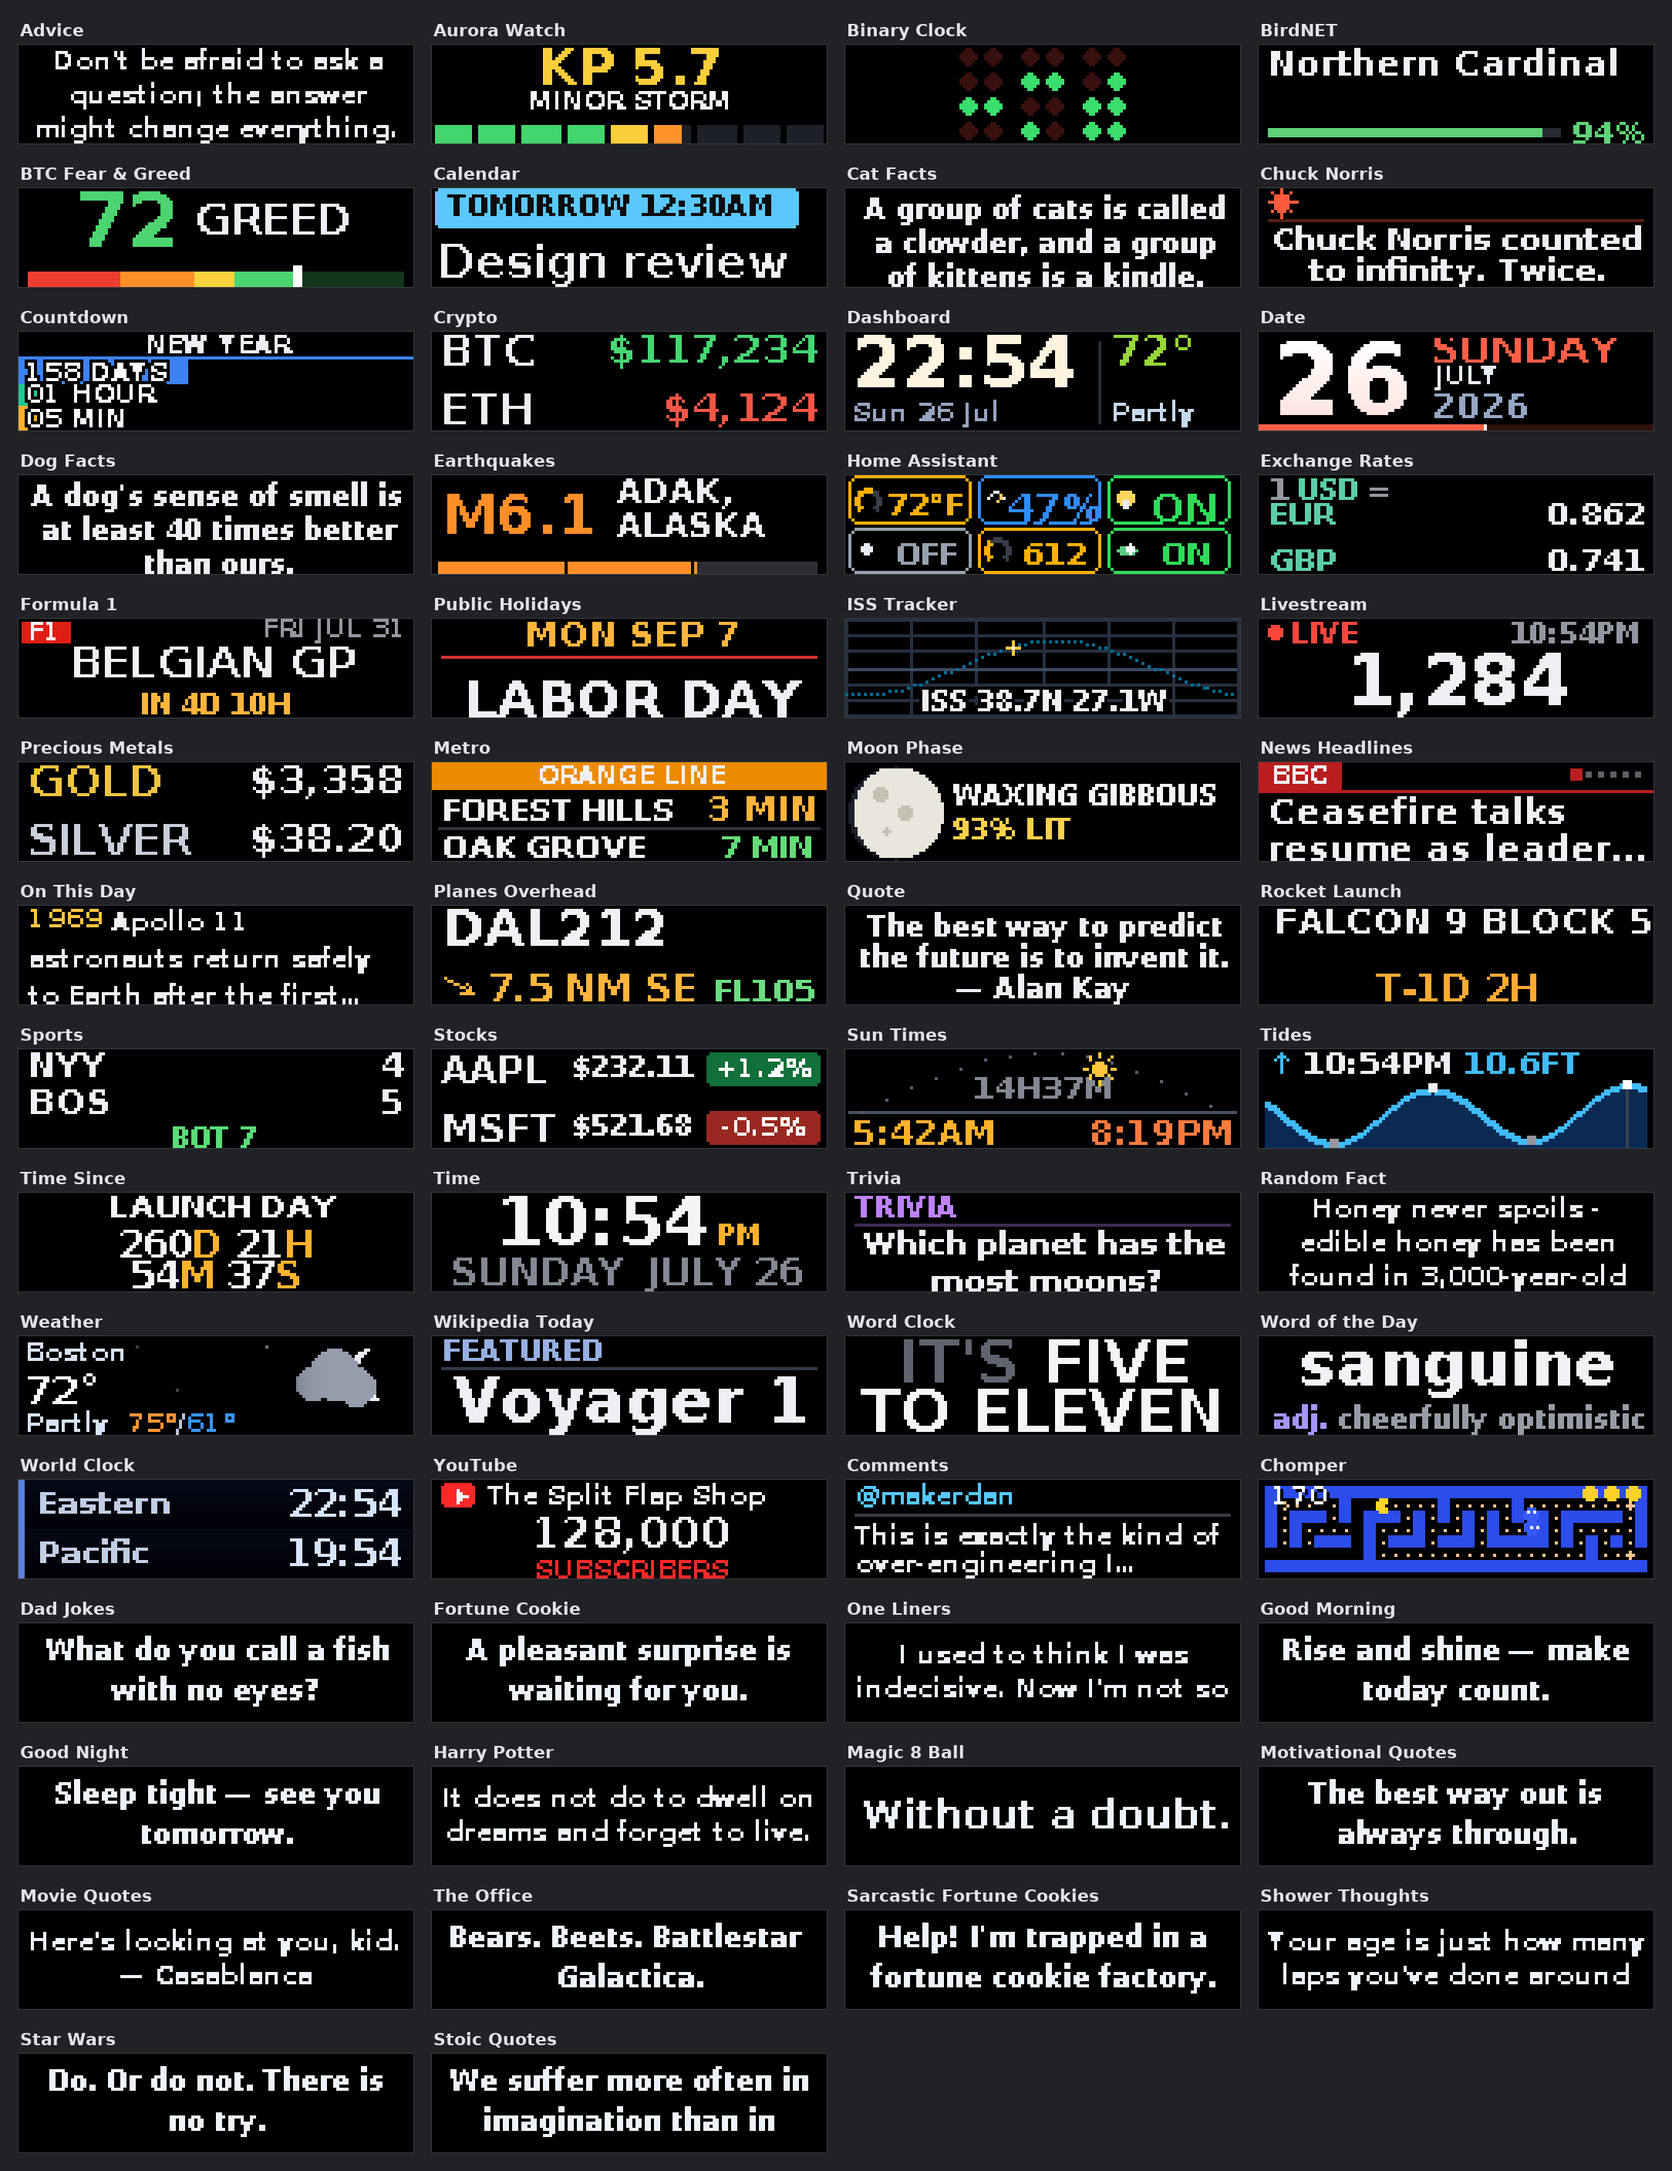
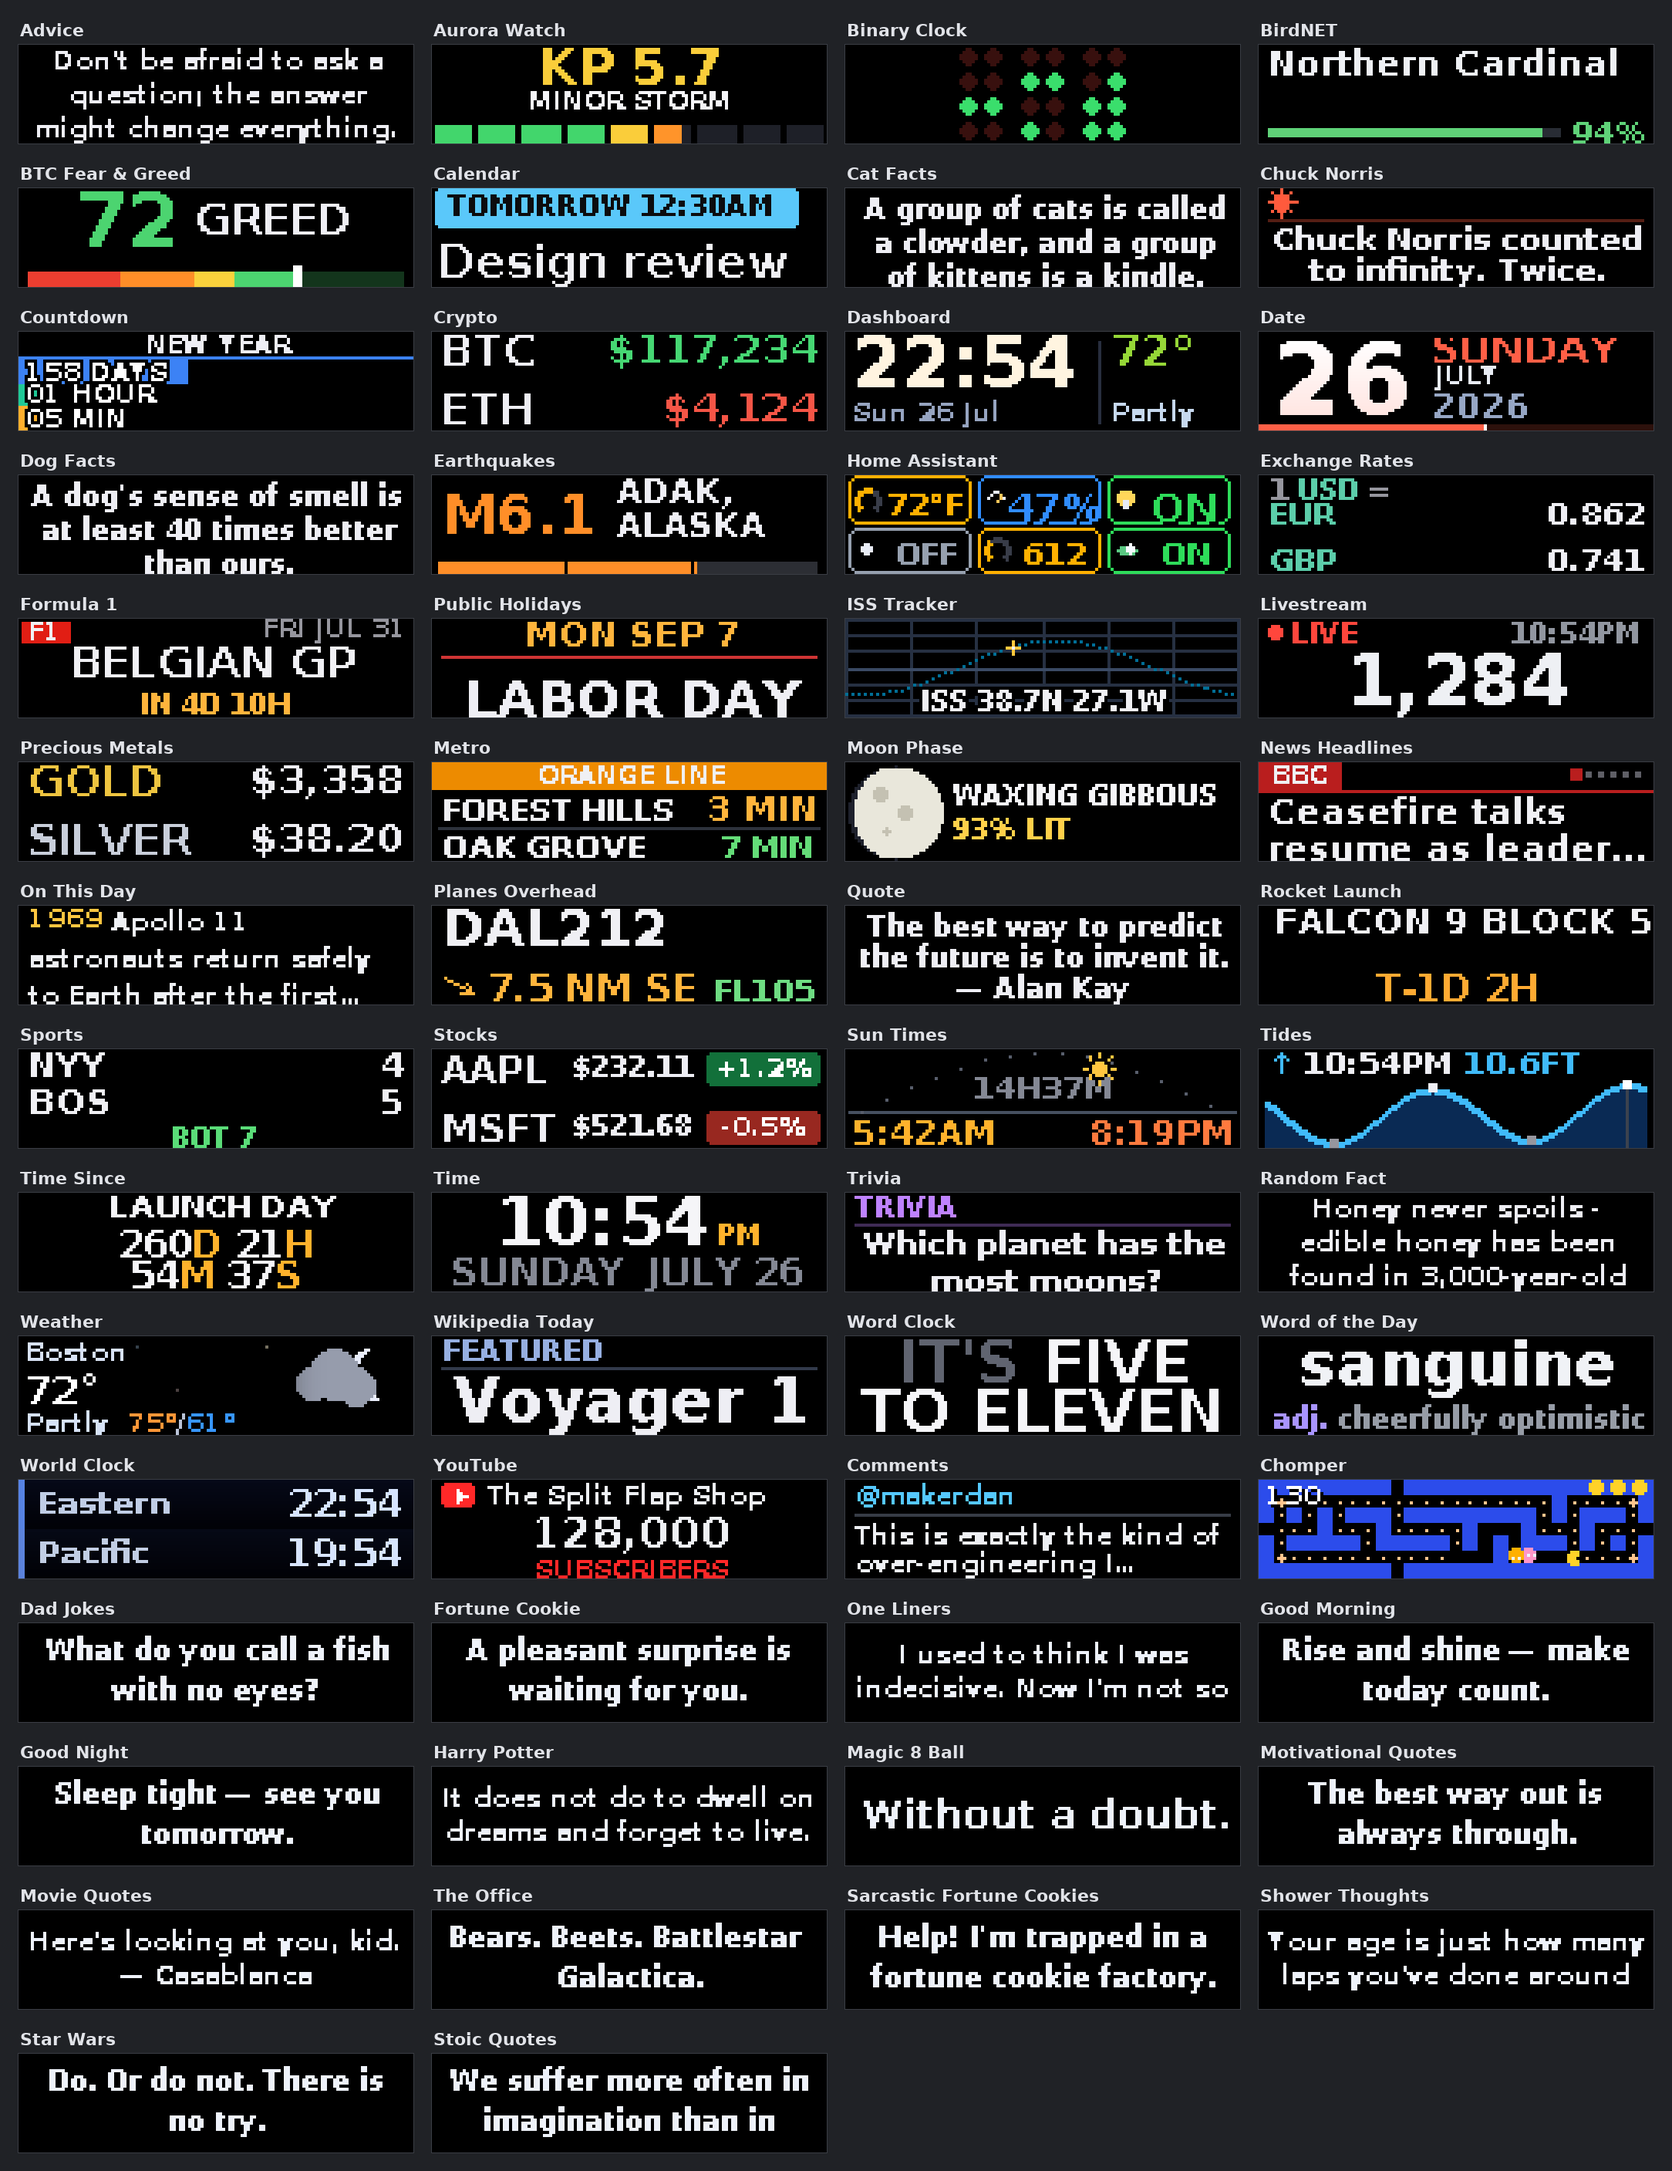
Chomper: randomized tunnel placement + a vertical tunnel
Side tunnels vary in count (one or two) and row per level; every maze also
opens one vertical tunnel at a random column, wrapping through top and
bottom — movement, BFS, and the chomper's step wrap on both axes now. The
chomper opens at bottom-center, arcade style, a corridor away from the
power-pellet corners (screenshots no longer start with every ghost blue).
Screenshots regenerated.

Changed region(s): [[0.7417, 0.6802, 0.9889, 0.742]]

diff --git a/apps/canvas-chomper/app.py b/apps/canvas-chomper/app.py
@@ -55,11 +55,16 @@ def _maze(cols, rows, rng):
             if cands:
                 dx, dy = cands[rng.randrange(len(cands))]
                 walls[y + dy // 2][x + dx // 2] = False
-    tunnel_rows = [y for y in range(1, rows - 1, 2)]
-    rng.shuffle(tunnel_rows)
-    for ty in tunnel_rows[:2 if rows >= 9 else 1]:         # the side tunnels wrap
+    h_rows = [y for y in range(1, rows - 1, 2)]            # tunnels: randomized count and
+    v_cols = [x for x in range(1, cols - 1, 2)]            # place, wrapping to the far edge
+    rng.shuffle(h_rows)
+    rng.shuffle(v_cols)
+    for ty in h_rows[:rng.randint(1, 2 if rows >= 9 else 1)]:
         walls[ty][0] = False
         walls[ty][cols - 1] = False
+    for tx in v_cols[:1]:                                  # and one vertical, arcade-plus
+        walls[0][tx] = False
+        walls[rows - 1][tx] = False
     cells = [(x, r) for r in range(rows) for x in range(cols) if not walls[r][x]]
     return walls, cells
 
@@ -91,10 +96,10 @@ def _wall_rects(walls):
 
 
 def _neighbors(walls, x, y):
-    cols = len(walls[0])
+    cols, rows = len(walls[0]), len(walls)
     for d, (dx, dy) in _DIRS.items():
-        nx, ny = (x + dx) % cols, y + dy      # x wraps: the side tunnels
-        if 0 <= ny < len(walls) and not walls[ny][nx]:
+        nx, ny = (x + dx) % cols, (y + dy) % rows      # both axes wrap: the tunnels
+        if not walls[ny][nx]:
             yield d, nx, ny
 
 
@@ -109,8 +114,8 @@ def _bfs_dir(walls, start, targets, prefer=None):
     frontier = []
     for d in order:
         dx, dy = _DIRS[d]
-        nx, ny = (start[0] + dx) % len(walls[0]), start[1] + dy
-        if 0 <= ny < len(walls) and not walls[ny][nx]:
+        nx, ny = (start[0] + dx) % len(walls[0]), (start[1] + dy) % len(walls)
+        if not walls[ny][nx]:
             frontier.append(((nx, ny), d))
             seen.add((nx, ny))
     while frontier:
@@ -127,8 +132,7 @@ def _bfs_dir(walls, start, targets, prefer=None):
 
 
 def _reset_positions(st):
-    rows = st['rows']
-    st['pac'] = {'cell': (1, rows - 2), 'dir': 'r', 'phase': 0}
+    st['pac'] = {'cell': st['pac_start'], 'dir': 'r', 'phase': 0}
     st['ghost_list'] = [{'cell': st['spawn'], 'dir': 'l', 'col': _GHOSTS[i % len(_GHOSTS)]}
                        for i in range(st['n_ghosts'])]
     st['fright'] = 0
@@ -140,8 +144,12 @@ def _new_level(st):
     st['wall_rects'] = _wall_rects(st['walls'])
     cx0, cy0 = st['cols'] / 2, st['rows'] / 2
     st['spawn'] = min(cells, key=lambda c: abs(c[0] - cx0) + abs(c[1] - cy0))
+    # The chomper opens at bottom-center, arcade style — and a corridor away from the
+    # power-pellet corners, so a round doesn't start with every ghost already blue.
+    st['pac_start'] = min(cells, key=lambda c: abs(c[0] - cx0) + abs(c[1] - (st['rows'] - 2)))
     top_r, bot_r = 1, st['rows'] - 2
-    st['dots'] = {cc for cc in cells if 0 < cc[0] < st['cols'] - 1}   # tunnels stay bare
+    st['dots'] = {cc for cc in cells if 0 < cc[0] < st['cols'] - 1
+                  and 0 < cc[1] < st['rows'] - 1}                     # tunnels stay bare
     st['power'] = {(1, top_r), (st['cols'] - 2, top_r), (1, bot_r), (st['cols'] - 2, bot_r)}
     st['dots'] -= st['power']
     _reset_positions(st)
@@ -173,7 +181,7 @@ def _step(st):
     old_pac = pac['cell']
     if d:
         dx, dy = _DIRS[d]
-        pac['cell'] = ((px + dx) % st['cols'], py + dy)
+        pac['cell'] = ((px + dx) % st['cols'], (py + dy) % st['rows'])
         pac['dir'] = d
     pac['phase'] = (pac['phase'] + 1) % 4
 
@@ -251,12 +259,14 @@ def _draw_ghost(canvas, x, y, r, col, d):
 
 def fetch_matrix(settings, canvas):
     W, H = canvas.width, canvas.height
-    c = 5 if H >= 48 else 4                            # slim cells: 5px lanes fit the 5px sprites
-    cols, rows = max(11, W // c), max(5, H // c)
-    if cols * c > W or rows * c > H:                   # tiny panel: shrink to fit
-        c = min(W // cols, H // rows)
-    cols -= 1 - (cols % 2)                             # odd dims: the outer wall stays
-    rows -= 1 - (rows % 2)                             # one cell thick on every side
+    # The grid is stretched edge-to-edge: as many ~4.5px cells as fit (odd counts, so
+    # the outer wall stays one cell thick), each row/column mapped to pixel edges — no
+    # dead margin anywhere, and a 64px panel plays six corridor rows.
+    cols, rows = max(11, int(W / 4.5)), max(5, int(H / 4.5))
+    cols -= 1 - (cols % 2)
+    rows -= 1 - (rows % 2)
+    xe = [round(i * W / cols) for i in range(cols + 1)]
+    ye = [round(r * H / rows) for r in range(rows + 1)]
     try:
         n_ghosts = max(1, min(4, int(float(settings.get('ghosts', 4) or 4))))
     except (TypeError, ValueError):
@@ -264,24 +274,23 @@ def fetch_matrix(settings, canvas):
     st = _state(cols, rows, n_ghosts)
     _step(st)
 
-    ox, oy = (W - cols * c) // 2, (H - rows * c) // 2
-
     def cx(cell):
-        return ox + cell[0] * c + c // 2
+        return (xe[cell[0]] + xe[cell[0] + 1]) // 2
 
     def cy(cell):
-        return oy + cell[1] * c + c // 2
+        return (ye[cell[1]] + ye[cell[1] + 1]) // 2
 
     canvas.clear((0, 0, 0))
     for x0, r0, w0, h0 in st['wall_rects']:            # the maze in a handful of rects
-        canvas.rect(ox + x0 * c, oy + r0 * c, w0 * c, h0 * c, _WALL, fill=True)
+        canvas.rect(xe[x0], ye[r0], xe[x0 + w0] - xe[x0], ye[r0 + h0] - ye[r0],
+                    _WALL, fill=True)
     for cell in st['dots']:
         canvas.pixel(cx(cell), cy(cell), _DOT)
     if (st['step'] // 2) % 2 == 0:                     # power pellets blink
         for cell in st['power']:
-            canvas.circle(cx(cell), cy(cell), max(1, c // 4), _DOT, fill=True)
+            canvas.circle(cx(cell), cy(cell), 1, _DOT, fill=True)
 
-    pr = max(2, c // 2 - 1)
+    pr = 2                                             # 5px sprites, arcade-oversized for the lanes
     for g in st['ghost_list']:
         col = _FRIGHT if st['fright'] > 0 else g['col']
         _draw_ghost(canvas, cx(g['cell']), cy(g['cell']), pr, col, g['dir'])
@@ -289,9 +298,9 @@ def fetch_matrix(settings, canvas):
     _draw_pac(canvas, cx(pac['cell']), cy(pac['cell']), pr, pac['dir'], pac['phase'])
 
     if W >= 128:                                       # score rides the top wall band
-        canvas.shadow_text(ox + 2, max(0, oy + c - 9), str(st['score']), (255, 255, 255), 8)
+        canvas.shadow_text(2, 0, str(st['score']), (255, 255, 255), 8)
         for i in range(st['lives']):
-            canvas.circle(ox + cols * c - 5 - i * 7, oy + c // 2, 2, _PAC, fill=True)
+            canvas.circle(W - 5 - i * 7, max(2, ye[1] // 2), 2, _PAC, fill=True)
 
     canvas.show()
     try:
